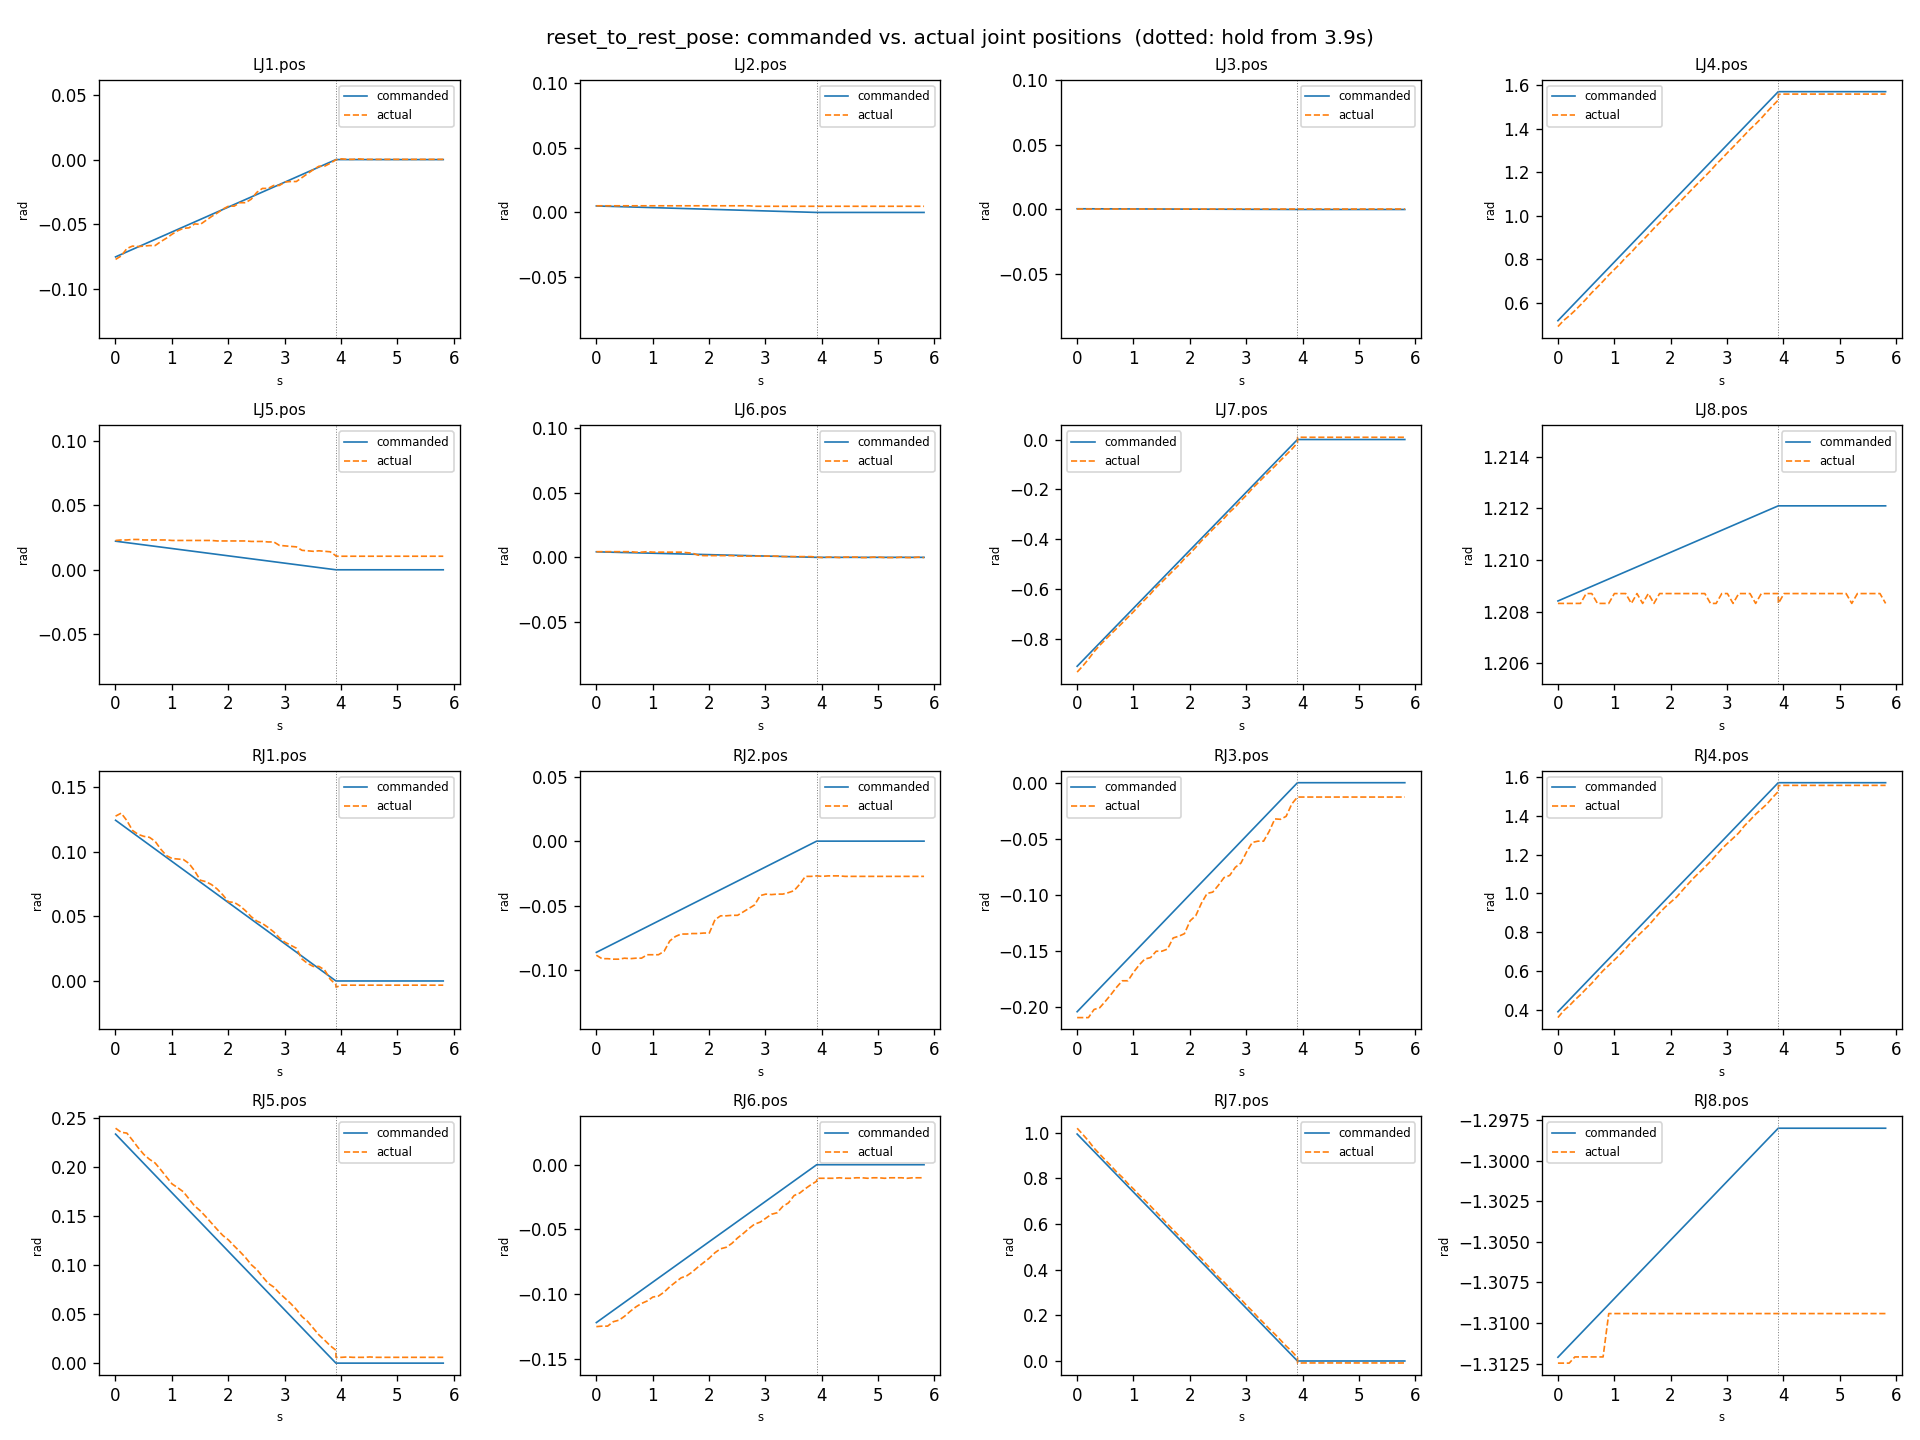
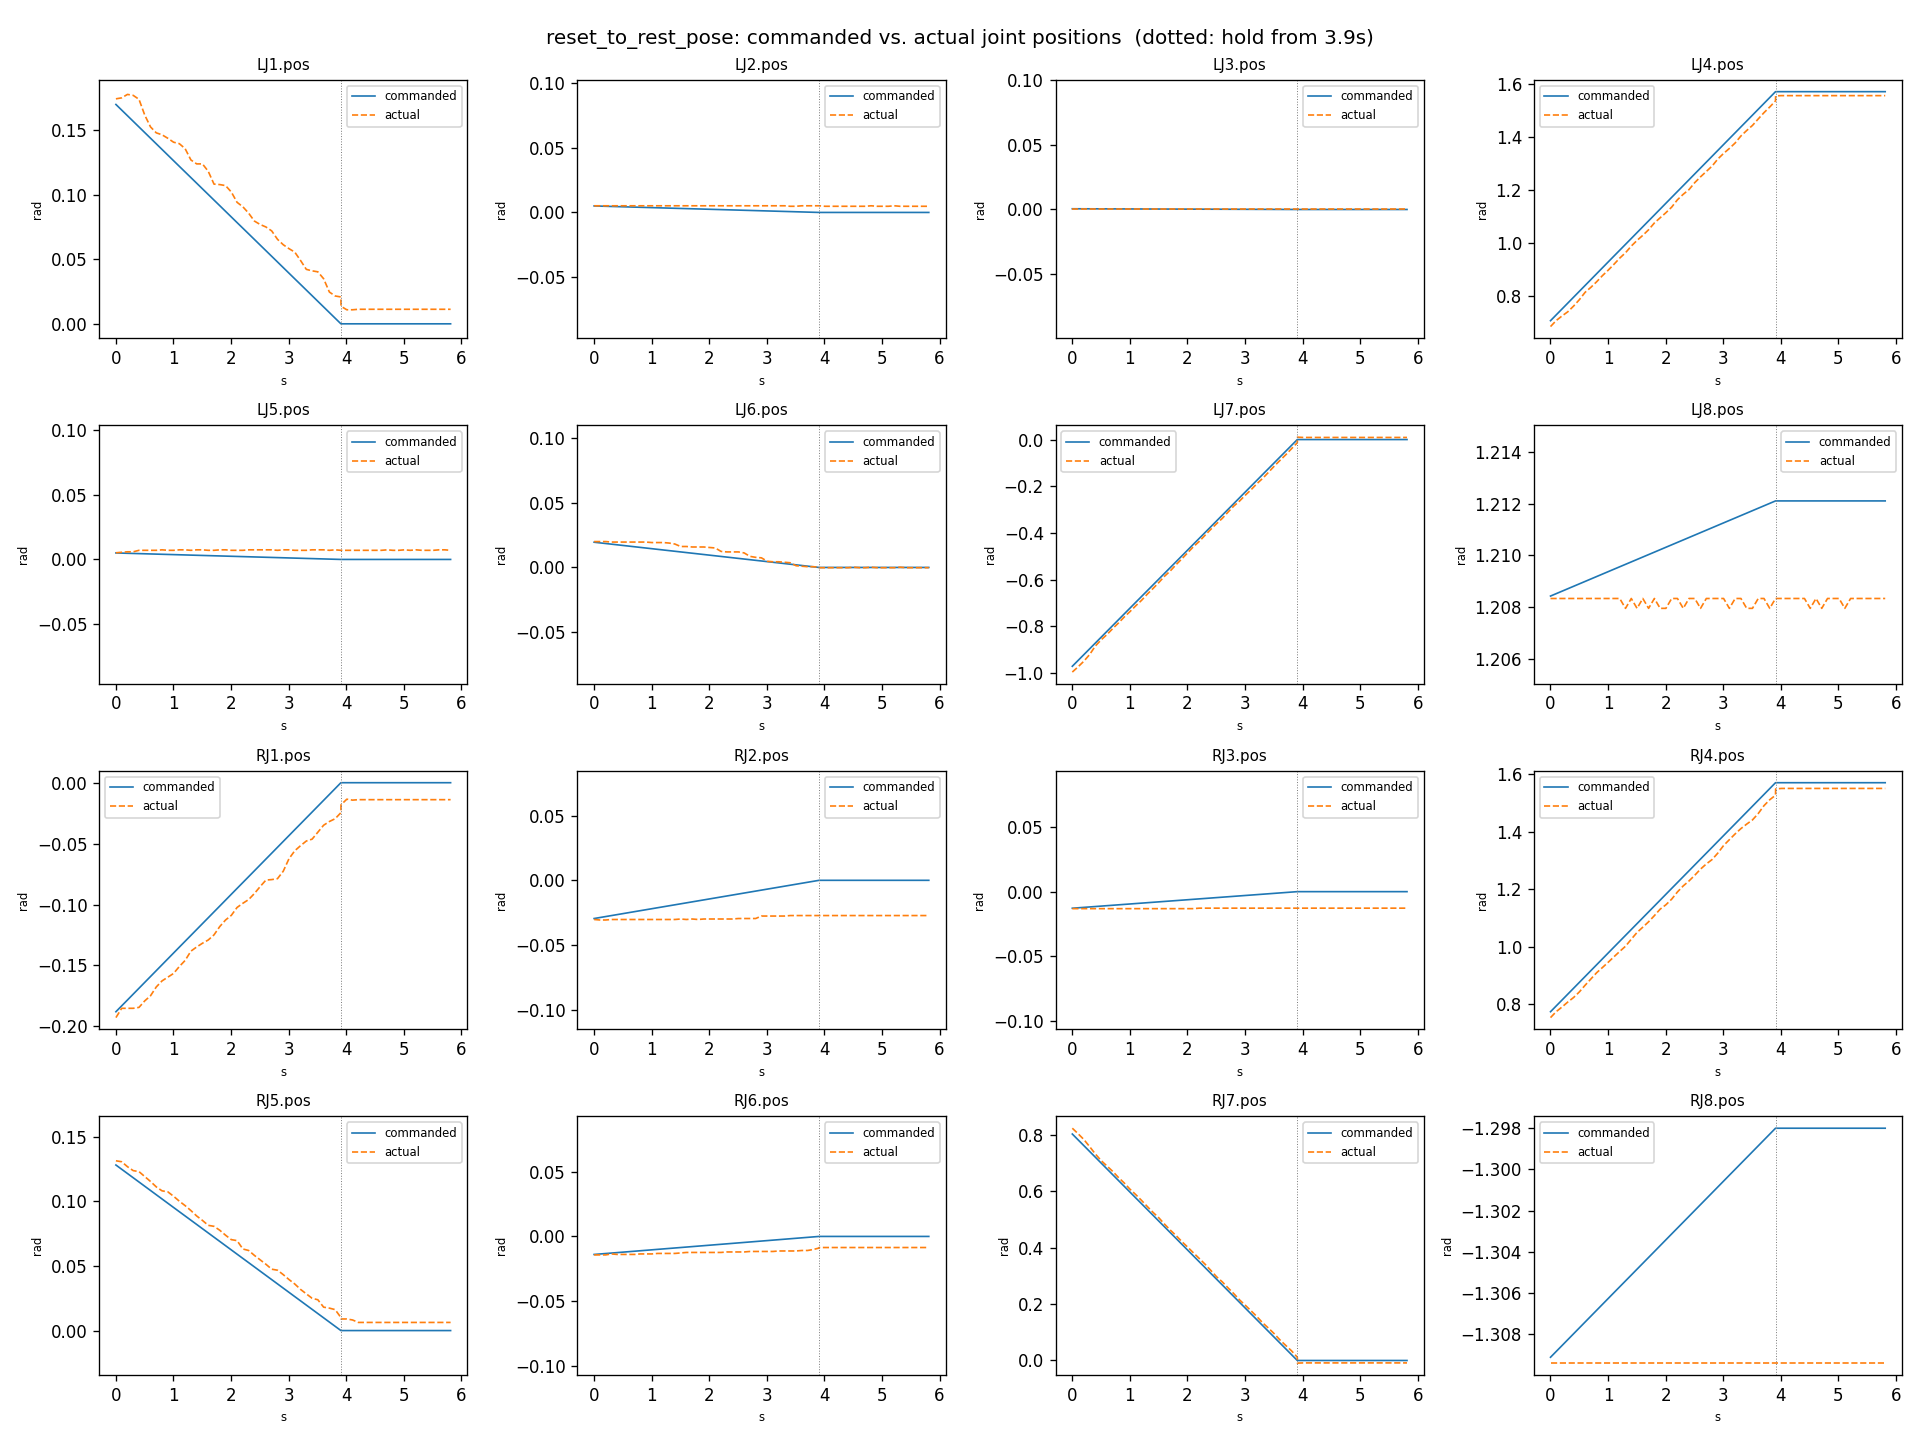
fix camera remapping

diff --git a/deploy_smolvla_pickup_jointspace.py b/deploy_smolvla_pickup_jointspace.py
@@ -20,7 +20,7 @@ runs an UNTESTED checkpoint on real hardware for the first time.
 Usage (dual-arm checkpoint: body + BOTH wrist cameras fed to the model):
   python deploy_smolvla_pickup_jointspace.py \\
       --checkpoint ethanCSL/<dual_arm_checkpoint> \\
-      --body-cam-index 4 --wrist-cam-index 10 --right-wrist-cam-index 12 \\
+      --body-cam-index rs_body --wrist-cam-index rs_wrist_left --right-wrist-cam-index rs_wrist_right \\
       --inference-hz 10 --max-joint-speed 0.3 --max-episode-seconds 10
 
 Usage (two-camera checkpoint, body + left wrist only):
@@ -40,6 +40,11 @@ exactly, so the names here are deliberately the dataset's own, not "left"/"right
                               third camera; omit for an older left-arm-only two-camera checkpoint)
   --front-cam-index        -> observation.images.front_cam        (the older "..._three_cams"
                               variant's third camera; unrelated to the right wrist one)
+
+Every camera option takes either a bare /dev/video index (4) or a stable udev alias
+(rs_body / rs_wrist_left / rs_wrist_right, from /etc/udev/rules.d/99-realsense-rgb.rules) -- the
+alias is pinned to the camera's USB serial, so prefer it: a RealSense exposes four /dev/video
+nodes and their numbering shifts on re-plug or reboot.
 
 Only pass the optional ones for a checkpoint actually trained with them -- the preprocessor will
 otherwise reject/ignore an unexpected image key, and a camera the checkpoint DOES expect but that
@@ -144,6 +149,7 @@ model for it and the raw prediction should be passed through instead.
 import argparse
 import fcntl
 import os
+import re
 import time
 
 import cv2
@@ -430,6 +436,31 @@ def _check_checkpoint_matches(model, preprocess, model_cam_keys: list) -> None:
         )
 
 
+def _video_index(spec: str) -> int:
+    """Camera CLI argument -> /dev/video index.
+
+    Accepts a bare index ("4"), a stable udev alias ("rs_body", from 99-realsense-rgb.rules), or
+    any path that resolves to a /dev/videoN node ("/dev/rs_body", "/dev/v4l/by-id/usb-Intel...").
+    Everything downstream -- OpenCVCameraConfig and the USB reset, which reads
+    /sys/class/video4linux/videoN -- wants the integer, so the alias is resolved here, once.
+
+    The aliases exist because a RealSense exposes four /dev/video nodes and their numbering shifts
+    when cameras are re-plugged or the machine reboots; the symlink is pinned to the camera's USB
+    serial, so it always points at that camera's colour stream."""
+    if spec.isdigit():
+        return int(spec)
+
+    path = spec if os.path.isabs(spec) else os.path.join("/dev", spec)
+    if not os.path.exists(path):
+        raise argparse.ArgumentTypeError(
+            f"{spec!r} is neither a /dev/video index nor an existing device path ({path} not found)")
+
+    node = os.path.basename(os.path.realpath(path))
+    if not re.fullmatch(r"video\d+", node):
+        raise argparse.ArgumentTypeError(f"{spec!r} resolves to {node}, which is not a /dev/videoN node")
+    return int(node[len("video"):])
+
+
 def parse_args():
     parser = argparse.ArgumentParser(description=__doc__, formatter_class=argparse.RawDescriptionHelpFormatter)
     parser.add_argument(
@@ -441,39 +472,43 @@ def parse_args():
         ),
     )
     parser.add_argument(
-        "--body-cam-index", type=int, required=True,
-        help="/dev/video index of the RealSense D435i mounted on the robot body (its color/RGB stream).",
-    )
-    parser.add_argument(
-        "--wrist-cam-index", type=int, required=True,
+        "--body-cam-index", type=_video_index, required=True,
         help=(
-            "/dev/video index of the RealSense D435i mounted on the LEFT wrist (its color/RGB "
-            "stream) -- fed to the model as observation.images.wrist_cam (the dataset's key for "
-            "the left wrist has no 'left_' prefix; only the right one is prefixed)."
+            "Camera on the robot body (its color/RGB stream). Takes a /dev/video index (4) or "
+            "a stable udev alias (rs_body, from 99-realsense-rgb.rules)."
         ),
     )
     parser.add_argument(
-        "--right-wrist-cam-index", type=int, default=None,
+        "--wrist-cam-index", type=_video_index, required=True,
         help=(
-            "/dev/video index of the camera on the RIGHT wrist, fed to the model as "
-            "observation.images.right_wrist_cam. REQUIRED for the dual-arm checkpoints trained "
-            "with it (body_cam + wrist_cam + right_wrist_cam); omit for an older left-arm-only "
-            "two-camera checkpoint."
+            "Camera on the LEFT wrist (its color/RGB stream) -- fed to the model as "
+            "observation.images.wrist_cam (the dataset's key for the left wrist has no 'left_' "
+            "prefix; only the right one is prefixed). Takes a /dev/video index (10) or a stable "
+            "udev alias (rs_wrist_left)."
         ),
     )
     parser.add_argument(
-        "--front-cam-index", type=int, default=None,
+        "--right-wrist-cam-index", type=_video_index, default=None,
         help=(
-            "/dev/video index of a camera named 'front_cam', for the older checkpoints trained "
+            "Camera on the RIGHT wrist, fed to the model as observation.images.right_wrist_cam. "
+            "REQUIRED for the dual-arm checkpoints trained with it (body_cam + wrist_cam + "
+            "right_wrist_cam); omit for an older left-arm-only two-camera checkpoint. Takes a "
+            "/dev/video index or a udev alias (rs_wrist_right)."
+        ),
+    )
+    parser.add_argument(
+        "--front-cam-index", type=_video_index, default=None,
+        help=(
+            "Camera named 'front_cam' (a /dev/video index or a udev alias), for the older checkpoints trained "
             "with one (e.g. ..._three_cams) -- unlike --side-cam-index, this one IS fed to the "
             "model as a real observation.images.front_cam input, same as body/wrist. Unrelated to "
             "--right-wrist-cam-index. Omit unless the checkpoint was trained with a front camera."
         ),
     )
     parser.add_argument(
-        "--side-cam-index", type=int, default=None,
+        "--side-cam-index", type=_video_index, default=None,
         help=(
-            "/dev/video index of an EXTRA camera (e.g. a side-view webcam at /dev/video12) shown "
+            "An EXTRA camera (a /dev/video index or a udev alias, e.g. a side-view webcam at /dev/video12) shown "
             "in the live visualization / saved video only -- NOT fed to the model regardless of "
             "checkpoint (that's what --right-wrist-cam-index / --front-cam-index are for). Omit "
             "to skip it."
